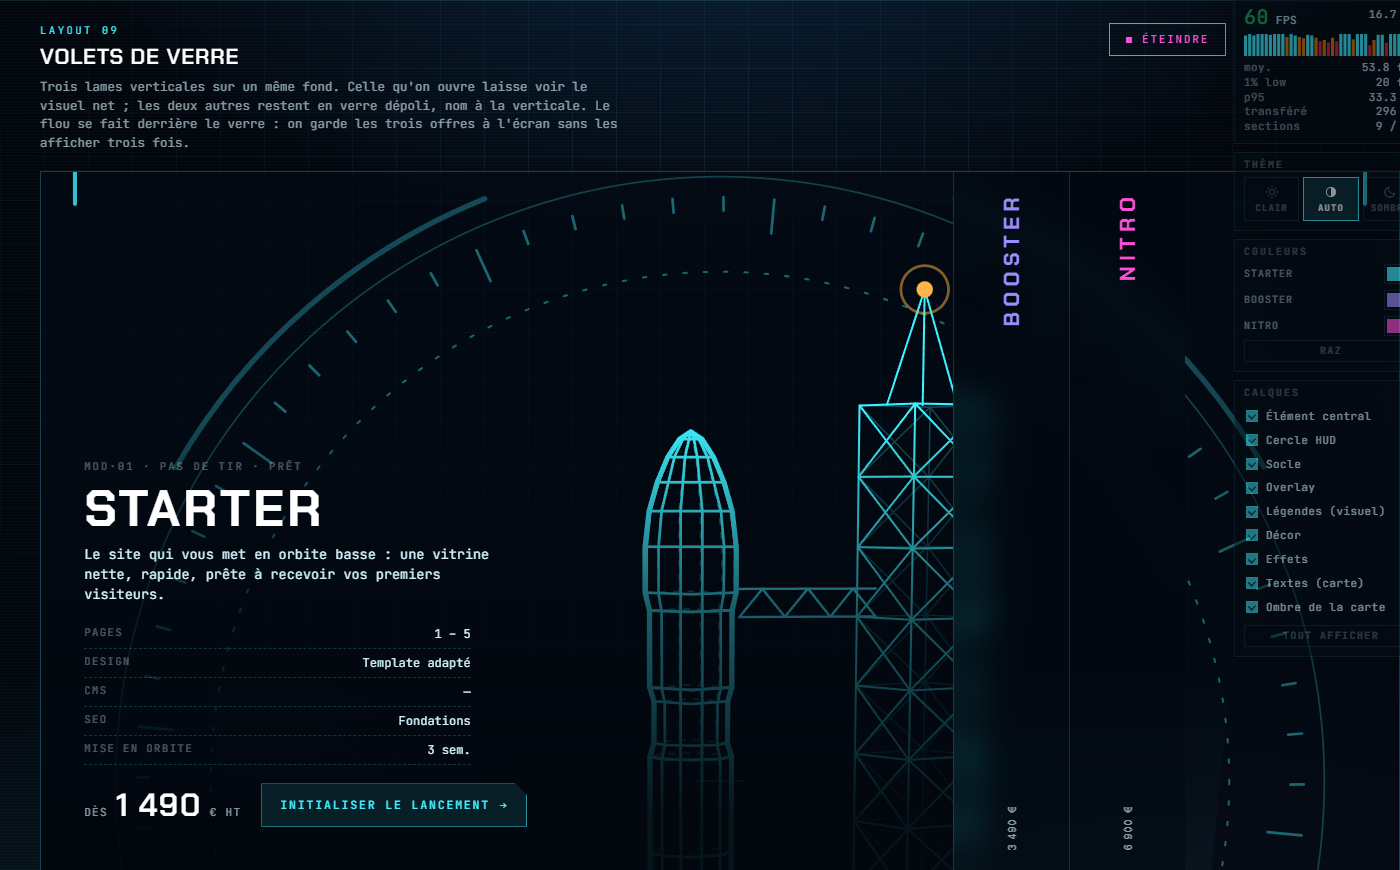
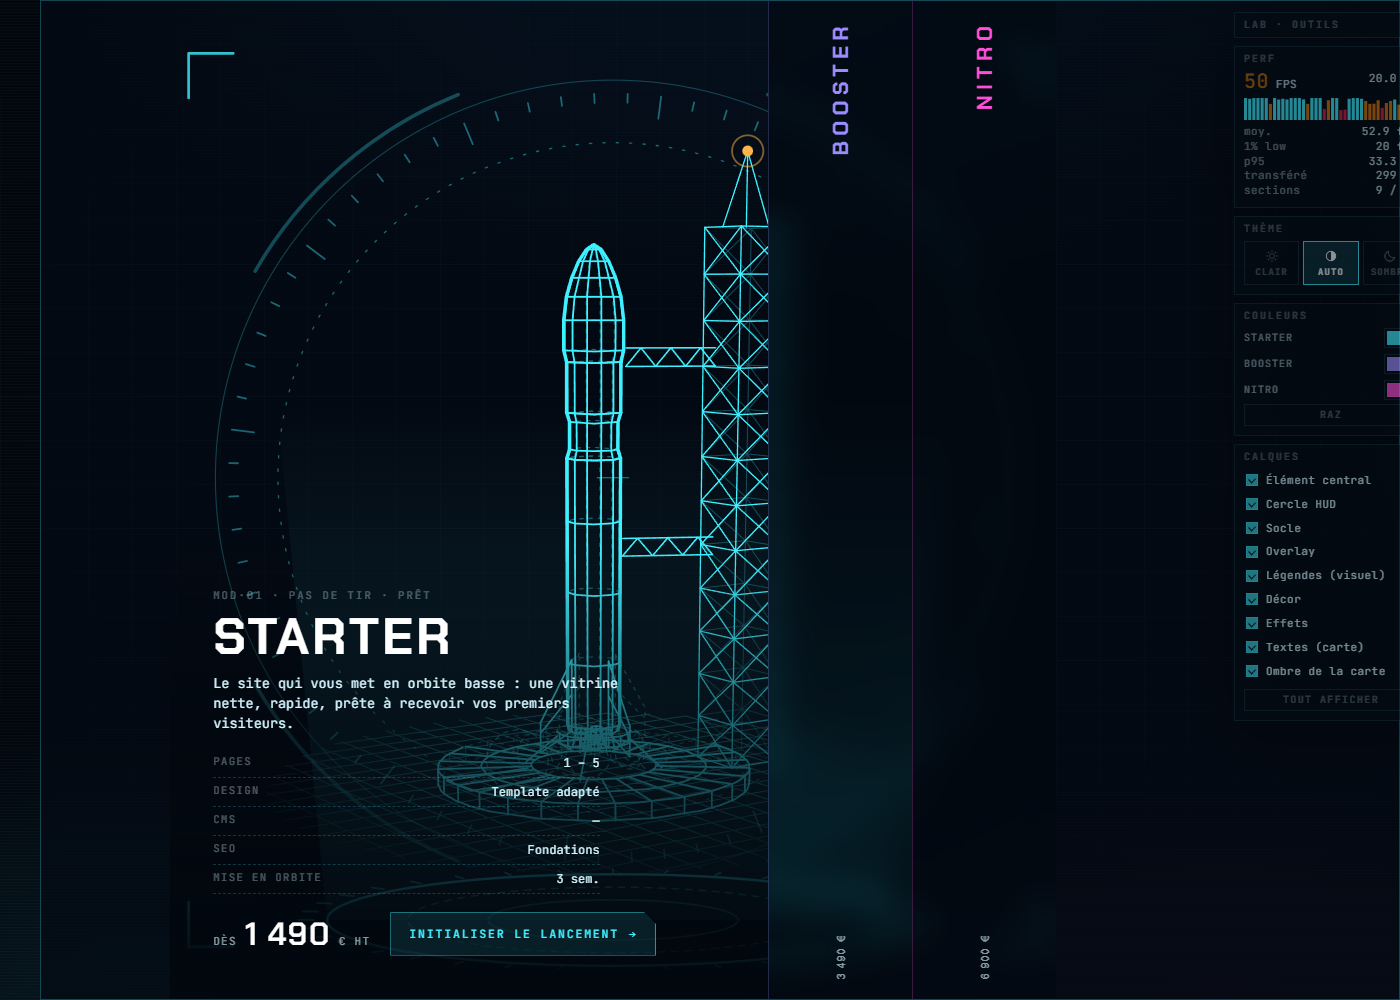
fix(test-layout): une section = un écran, le visuel s'y tient
Les onze mises en page font désormais 100svh (et non 100vh : sur mobile la
barre d'URL tronquait), et le visuel se règle sur cette hauteur au lieu de la
déborder.

La cause du débordement était une bagarre de spécificité : `[data-visual] .illu`
(0,2,0) imposait `height: auto` à `.illu--bg` (0,1,0), si bien que les plans de
fond se calaient sur la *largeur* de la section — soit 1,05 × 1840 px de haut
pour 1000 px disponibles. D'où la fusée coupée en bas du diorama et le vaisseau
rogné derrière la typographie. Le débordement des plans, lui, était voulu (marge
de parallaxe) : il est conservé, mais ramené à 3-4 % à l'intérieur de la section.

Le reste suit : contenus centrés verticalement (hero, immersif, fiche technique,
hublot, typographie), cartes du fond de la pile en pourcentages plutôt qu'en
pixels, `--illu-max` par layout dans la première famille (46 vh pour la fiche
technique, 74 vh pour les deux colonnes), section en veille à 42 vh pour ne pas
imposer onze écrans vides.

Les volets (09) demandaient un arbitrage : un dessin large de 0,95 × la hauteur
posé dans une section deux fois plus large, et les lames de verre n'ont plus rien
à flouter derrière elles. Elles se resserrent donc autour du dessin, quitte à
laisser de l'air sur les côtés — l'effet de profondeur passe avant le remplissage.

Vérifié de 1280 à 1920 px (haut et bas de chaque section) : tous les contrôles
restent atteignables, 11/11 sélecteurs changent d'offre, aucun débordement
[…]

diff --git a/test-layout/css/style.css b/test-layout/css/style.css
@@ -47,8 +47,10 @@
 .power[aria-pressed="true"] { border-color: var(--c-nitro); color: var(--c-nitro); }
 
 .lab-section__stage { position: relative; min-height: 120px; padding-inline: clamp(16px, 3vw, 40px); }
+/* En veille, la section ne prend pas un écran entier : onze cadres vides à faire
+   défiler avant d'en allumer un, ce serait la page la moins agréable du lab. */
 .lab-section__idle {
-  display: grid; place-items: center; min-height: 200px; margin: 0;
+  display: grid; place-items: center; min-height: 42vh; margin: 0;
   border: 1px dashed var(--line); color: var(--ink-faint);
   font-size: 11.5px; letter-spacing: .14em; text-transform: uppercase;
 }
@@ -85,6 +87,25 @@
 [data-visual] { color: var(--accent); }
 [data-visual] .illu { width: 100%; height: auto; display: block; }
 
+/* ── Une section = un écran ──────────────────────────────────────────────────
+ * Chaque mise en page occupe toute la hauteur du viewport : c'est la seule
+ * façon honnête de juger une section d'offre, qu'on découvre toujours ainsi.
+ * Corollaire : le visuel se règle sur cette hauteur (`--illu-max`), il ne la
+ * dépasse jamais. Un dessin coupé par le bas, ce n'était pas un parti pris.
+ * `svh` plutôt que `vh` : sur mobile, la barre d'URL ne doit pas tronquer.
+ * ─────────────────────────────────────────────────────────────────────────── */
+.l-split, .l-hero, .l-imm, .l-data, .l-stack, .l-throttle,
+.l-cock, .l-sten, .l-shut, .l-port, .l-dio {
+  min-height: 100vh;
+  min-height: 100svh;
+}
+[data-visual] .illu { max-height: var(--illu-max, none); }
+.l-split { --illu-max: 74vh; }
+.l-hero { --illu-max: 58vh; }
+.l-data { --illu-max: 46vh; }
+.l-stack { --illu-max: 56vh; }
+.l-throttle { --illu-max: 72vh; }
+
 /* ── 01 · Deux colonnes, onglets ─────────────────────────────────────────── */
 .l-split { display: grid; grid-template-columns: minmax(320px, 620px) minmax(320px, 64ch); gap: clamp(24px, 4vw, 72px);
   align-items: center; justify-content: center;
@@ -101,7 +122,8 @@
 @media (max-width: 900px) { .l-split { grid-template-columns: minmax(0, 1fr); } }
 
 /* ── 02 · Hero centré, ascenseur d'étages ────────────────────────────────── */
-.l-hero { display: grid; grid-template-columns: 200px minmax(0, 860px); gap: clamp(20px, 4vw, 64px); justify-content: center;
+.l-hero { display: grid; grid-template-columns: 200px minmax(0, 860px); gap: clamp(20px, 4vw, 64px);
+  justify-content: center; align-content: center;
   padding: clamp(20px, 3vw, 40px); border: 1px solid color-mix(in srgb, var(--accent) 24%, transparent); background: var(--panel); }
 .stepper { display: flex; flex-direction: column; gap: 6px; position: relative; }
 .stepper::before { content: ""; position: absolute; left: 17px; top: 18px; bottom: 18px; width: 1px; background: var(--line); }
@@ -127,7 +149,8 @@
 @media (max-width: 760px) { .l-hero { grid-template-columns: minmax(0, 1fr); } .stepper { flex-direction: row; overflow-x: auto; } .stepper::before { display: none; } }
 
 /* ── 03 · Immersif, carrousel ────────────────────────────────────────────── */
-.l-imm { position: relative; overflow: hidden; border: 1px solid color-mix(in srgb, var(--accent) 28%, transparent); background: var(--panel); min-height: min(76vh, 680px); }
+.l-imm { position: relative; overflow: hidden; display: flex; align-items: center;
+  border: 1px solid color-mix(in srgb, var(--accent) 28%, transparent); background: var(--panel); }
 .l-imm:focus-visible { outline: 2px solid var(--accent); outline-offset: 2px; }
 .l-imm__visual { position: absolute; inset: 0; display: grid; place-items: center; opacity: .95; }
 .l-imm__visual .illu { width: auto; height: 100%; max-width: none; }
@@ -164,22 +187,24 @@
 .explorer__code { font-size: 10px; letter-spacing: .18em; text-transform: uppercase; color: var(--ink-faint); }
 .explorer__name { grid-column: 1; font: 600 14px/1 var(--font-display); letter-spacing: .05em; text-transform: uppercase; }
 .explorer__price { grid-row: 2; text-align: right; font-size: 11.5px; font-variant-numeric: tabular-nums; }
-.l-data__panel { padding: clamp(18px, 2.5vw, 32px); }
+.l-data__panel { padding: clamp(18px, 2.5vw, 32px); display: flex; flex-direction: column; justify-content: center; }
 .l-data__head { display: flex; align-items: flex-start; justify-content: space-between; gap: 16px; margin-bottom: 16px; }
 .l-data__grid { display: grid; grid-template-columns: minmax(240px, 340px) minmax(0, 1fr); gap: clamp(24px, 3vw, 48px); align-items: start; }
 .l-data__foot { display: flex; align-items: center; justify-content: space-between; gap: 20px; flex-wrap: wrap; margin-top: 18px; padding-top: 16px; border-top: 1px solid var(--line); }
 @media (max-width: 900px) { .l-data, .l-data__grid { grid-template-columns: minmax(0, 1fr); } .explorer { border-right: 0; border-bottom: 1px solid var(--line); } }
 
 /* ── 05 · Pile de cartes ─────────────────────────────────────────────────── */
-.l-stack { position: relative; padding: 10px 0 10px 150px; min-height: min(72vh, 620px); }
+.l-stack { position: relative; display: flex; align-items: center; padding: 10px 0 10px 150px; }
 .l-stack__front {
-  position: relative; z-index: 3; max-width: 1320px; display: grid; grid-template-columns: minmax(280px, 520px) minmax(0, 1fr); gap: clamp(20px, 4vw, 64px);
+  position: relative; z-index: 3; width: 100%; max-width: 1320px; display: grid; grid-template-columns: minmax(280px, 520px) minmax(0, 1fr); gap: clamp(20px, 4vw, 64px);
   align-items: center; padding: clamp(18px, 3vw, 30px);
   border: 1px solid color-mix(in srgb, var(--accent) 34%, transparent); background: var(--panel);
   box-shadow: 0 24px 60px -40px #000;
 }
+/* Les cartes du fond suivent la hauteur de la section plutôt qu'un chiffre fixe :
+   à 100 vh, des insets en pixels les auraient étirées en lames de rasoir. */
 .l-stack__ghost {
-  position: absolute; top: 34px; bottom: 34px; width: 132px; z-index: 1; cursor: pointer;
+  position: absolute; top: 18%; bottom: 18%; width: 132px; z-index: 1; cursor: pointer;
   display: flex; flex-direction: column; justify-content: center; gap: 8px; padding: 18px 14px;
   border: 1px solid var(--line); background: var(--panel-solid); color: var(--ink-dim);
   transition: transform .35s var(--ease), border-color .3s, color .3s;
@@ -251,13 +276,15 @@
  * ════════════════════════════════════════════════════════════════════════════ */
 .l-cock, .l-sten, .l-shut, .l-port, .l-dio {
   position: relative; overflow: hidden;
-  min-height: min(78vh, 700px);
   border: 1px solid color-mix(in srgb, var(--accent) 26%, transparent);
   background: var(--panel);
 }
-/* Le plan de fond : plus grand que la section, donc toujours plein cadre */
+/* Le plan de fond reste *dans* la section : il se règle sur sa hauteur et garde
+   une marge (3-4 %) que la parallaxe consomme sans jamais rogner le dessin. */
 .l-cock__bg, .l-sten__bg, .l-shut__bg, .l-port__bg, .l-dio__bg { position: absolute; inset: 0; }
-.illu--bg { width: 100%; height: 100%; }
+/* Sélecteur assez spécifique pour battre `[data-visual] .illu { height: auto }` :
+   sinon le dessin se cale sur la largeur du plan et déborde par le bas. */
+[data-visual] .illu--bg { width: 100%; height: 100%; }
 /* Un décor n'a pas besoin de parler : en fond, le visuel perd ses légendes (deux
    typographies concurrentes à deux échelles, c'en est une de trop) et son halo
    (agrandi 2×, le flou gaussien coûte cher pour un plan qu'on regarde à peine). */
@@ -266,7 +293,7 @@
 
 /* ── 07 · Poste de pilotage ──────────────────────────────────────────────── */
 .l-cock { display: flex; flex-direction: column; justify-content: space-between; }
-.l-cock__bg { inset: 2% 14% 2% 26%; opacity: .95; }
+.l-cock__bg { inset: 4% 13% 4% 30%; opacity: .95; }
 .l-cock__scrim {
   position: absolute; inset: 0;
   background:
@@ -321,7 +348,7 @@
 .tog:hover { color: var(--ink); border-color: color-mix(in srgb, var(--accent) 45%, transparent); }
 .tog__code { font-size: 9px; letter-spacing: .2em; color: var(--ink-faint); }
 .tog__name { font: 600 11px/1 var(--font-display); font-style: normal; letter-spacing: .14em; text-transform: uppercase; }
-@media (max-width: 760px) { .l-cock__bg { inset: -6% -20%; opacity: .5; } .l-cock__panel { width: auto; } }
+@media (max-width: 760px) { .l-cock__bg { inset: 2% -10%; opacity: .5; } .l-cock__panel { width: auto; } }
 
 /* ── 08 · Typographie évidée ─────────────────────────────────────────────── */
 /* Les lettres se fondent dans le visuel : éclaircies sur fond sombre, encrées sur fond
@@ -330,22 +357,24 @@
 @media (prefers-color-scheme: light) { :root:not([data-theme="dark"]) { --sten-blend: multiply; --sten-glow: none; } }
 :root[data-theme="light"] { --sten-blend: multiply; --sten-glow: none; }
 
-.l-sten { min-height: min(84vh, 760px); }
-.l-sten__bg { inset: -6% 0; }
+.l-sten__bg { inset: 3% 0; }
 .l-sten__veil {
   position: absolute; inset: 0;
   background: radial-gradient(92% 72% at 32% 38%, color-mix(in srgb, var(--bg) 42%, transparent), color-mix(in srgb, var(--bg) 86%, transparent) 78%);
 }
+/* Sur un plein écran, le bloc de noms se centre : sinon il flotte en haut d'une
+   section deux fois plus haute que lui. */
+.l-sten { display: grid; align-content: center; }
 .l-sten__words {
   position: relative; z-index: 2; display: flex; flex-direction: column; align-items: flex-start;
-  padding: clamp(20px, 3.5vw, 52px) clamp(16px, 3vw, 40px) 0;
+  padding: 0 clamp(16px, 3vw, 40px);
 }
 /* Le mode de fusion ne se pose que sur le mot allumé : chaque élément fusionné doit
    être recomposé à chaque image du visuel qui passe dessous. Un seul, ça se paie ;
    trois, ça coûtait 15 fps. Les contours, eux, n'en ont pas besoin. */
 .l-sten__word[aria-selected="true"] { mix-blend-mode: var(--sten-blend); }
 .l-sten__word {
-  font: 700 clamp(2.4rem, 8vw, 6.8rem)/.94 var(--font-display);
+  font: 700 clamp(2.4rem, 8vw, 8.4rem)/.94 var(--font-display);
   letter-spacing: .02em; text-transform: uppercase; text-align: left;
   padding: 0; background: none; border: 0; cursor: pointer;
   color: transparent; -webkit-text-stroke: 1.2px color-mix(in srgb, var(--ink) 40%, transparent);
@@ -372,13 +401,18 @@
 @media (max-width: 760px) { .l-sten__card { position: static; width: auto; margin: 24px clamp(16px, 3vw, 40px) clamp(16px, 3vw, 40px); } }
 
 /* ── 09 · Volets de verre ────────────────────────────────────────────────── */
-.l-shut__bg { inset: -10% 0; }
-.l-shut__rail { position: absolute; inset: 0; display: flex; }
+.l-shut__bg { inset: 3% 0; }
+/* Les lames se resserrent autour du dessin (large d'environ 0,95 × la hauteur) :
+   posées aux bords d'une section deux fois plus large, elles n'auraient rien
+   derrière elles à flouter, et le verre dépoli ne se verrait pas. */
+.l-shut__rail { position: absolute; inset: 0; display: flex; padding-inline: max(0px, calc((100% - 96svh - 140px) / 2)); }
 .l-shut__pane { position: relative; border-left: 1px solid color-mix(in srgb, var(--accent) 22%, transparent); }
 .l-shut__pane:first-child { border-left: 0; }
 /* Fermé : lame de verre dépoli — c'est *derrière* elle que le flou se produit */
+/* Des lames assez larges pour mordre sur le dessin : le verre dépoli n'a d'effet
+   que là où il a quelque chose à flouter derrière lui. */
 .l-shut__pane--closed {
-  flex: 0 0 clamp(68px, 9vw, 116px); cursor: pointer; padding: 20px 0;
+  flex: 0 0 clamp(76px, 10vw, 150px); cursor: pointer; padding: 20px 0;
   display: flex; flex-direction: column; align-items: center; justify-content: space-between; gap: 16px;
   background: color-mix(in srgb, var(--bg) 50%, transparent);
   backdrop-filter: blur(16px) saturate(1.15);
@@ -403,9 +437,13 @@
 @media (max-width: 760px) { .l-shut__vert { font-size: .85rem; } .l-shut__pane--closed { flex-basis: 56px; } }
 
 /* ── 10 · Hublot ─────────────────────────────────────────────────────────── */
-.l-port { --cx: 72%; --cy: 46%; --r: clamp(120px, 20vw, 240px); }
-/* Le visuel est cadré sur le hublot : c'est lui qu'on regarde à travers le disque */
-.l-port__bg { inset: 13% auto 13% auto; left: calc(var(--cx) - 21%); width: 42%; }
+.l-port { --cx: 72%; --cy: 46%; --r: clamp(120px, 17vw, 300px); }
+/* Le visuel est cadré sur le hublot, en unités de rayon : il suit le disque
+   quelle que soit la taille de l'écran, et déborde à peine de son cercle. */
+.l-port__bg {
+  inset: auto; left: calc(var(--cx) - var(--r) * 1.12); top: calc(var(--cy) - var(--r) * 1.16);
+  width: calc(var(--r) * 2.24); height: calc(var(--r) * 2.32);
+}
 /* Le voile floute *son propre fond*, sauf dans le disque : un seul visuel, deux netteté */
 .l-port__mask {
   position: absolute; inset: 0;
@@ -421,7 +459,8 @@
   box-shadow: 0 0 0 12px color-mix(in srgb, var(--bg) 35%, transparent), inset 0 0 70px -24px var(--accent);
 }
 .l-port__ring i { position: absolute; inset: -16px; border-radius: 50%; border: 1px dashed color-mix(in srgb, var(--accent) 24%, transparent); }
-.l-port__text { position: relative; z-index: 2; width: min(46ch, 56%); padding: clamp(22px, 3.5vw, 56px) clamp(16px, 3vw, 40px) 0; }
+.l-port { display: flex; align-items: center; }
+.l-port__text { position: relative; z-index: 2; width: min(46ch, 56%); padding: 0 clamp(16px, 3vw, 40px); }
 .specs--lead { max-width: 40ch; }
 .specs--lead div { border-bottom-style: dotted; }
 .l-port__foot { display: flex; align-items: center; gap: 18px; flex-wrap: wrap; margin-top: 4px; }
@@ -457,9 +496,10 @@
 .l-port__marks button[aria-checked="true"] { color: var(--accent); }
 .l-port__marks button[aria-checked="true"] i { width: 24px; height: 2px; box-shadow: 0 0 8px var(--accent); }
 @media (max-width: 760px) {
-  .l-port { --cx: 72%; --cy: 26%; --r: 108px; }
-  .l-port__bg { inset: -4% -10% 40% 18%; }
-  .l-port__text { width: auto; padding-top: 240px; }
+  /* En colonne : le hublot en haut, le texte dessous — jamais sur le disque */
+  .l-port { display: block; --cx: 50%; --cy: 24%; --r: min(34vw, 150px); }
+  /* En pourcentage, un padding se mesure sur la largeur : on reste en rayons */
+  .l-port__text { width: auto; padding-top: calc(var(--r) * 2 + 56px); }
   .l-port__dial { position: static; margin: 18px clamp(16px, 3vw, 40px) clamp(18px, 3vw, 34px); }
 }
 
@@ -467,7 +507,9 @@
 .l-dio { perspective: 1200px; perspective-origin: 50% 44%; }
 .l-dio__scene { position: absolute; inset: 0; transform-style: preserve-3d; }
 .l-dio__plane { position: absolute; inset: 0; }
-.l-dio__bg { transform: translateZ(-210px) scale(1.12); opacity: .92; }
+/* Reculé de 210 px sous une perspective de 1200, le plan paraît à 85 % : on ne le
+   rattrape pas par un scale, sinon la toile déborde du diorama qui la contient. */
+.l-dio__bg { inset: 3% 0; transform: translateZ(-210px); opacity: .92; }
 .l-dio__grid {
   transform: translateZ(-90px) scale(1.16); opacity: .45;
   background-image:
@@ -532,7 +574,8 @@
   .l-data__panel, .l-stack__front { padding-right: max(clamp(18px, 2.5vw, 32px), var(--dock-w, 214px)); }
   /* Famille « visuel en fond » : ce qui est collé au bord droit passerait sous le dock */
   .l-sten__card, .l-dio__tabs { right: max(clamp(16px, 3vw, 44px), var(--dock-w, 214px)); }
-  /* Les volets s'arrêtent avant le dock : la dernière lame resterait sous lui, donc incliquable */
-  .l-shut__rail { right: var(--dock-w, 214px); }
+  /* Les volets s'arrêtent avant le dock : la dernière lame resterait sous lui, donc
+     incliquable. Le plan de fond suit, pour que lames et dessin restent concentriques. */
+  .l-shut__rail, .l-shut__bg { right: var(--dock-w, 214px); }
   .l-port { --cx: 62%; }
 }

diff --git a/test-layout/README.md b/test-layout/README.md
@@ -27,11 +27,24 @@ markup qu'on injecte. Comme on peut afficher onze sections en même temps, c'ét
 risquée pour la fluidité. Les trois visuels viennent de `js/svg-data.js`, généré par le
 prototype 01 : une seule source, aucun doublon.
 
-## Une section prend toute la largeur
+## Une section = un écran
 
-Aucune section n'est bridée par une largeur de page : la bordure, le fond et le visuel vont
-d'un bord à l'autre de l'écran. Ce sont les **blocs à l'intérieur** (colonne de texte à 62 ch,
-carte, panneau, grille de specs) qui se limitent, là où la lecture l'exige.
+Chaque mise en page occupe **toute la hauteur du viewport** (`100svh`, pas `100vh` : sur mobile
+la barre d'URL ne doit pas tronquer) et **toute la largeur** : la bordure, le fond et le visuel
+vont d'un bord à l'autre. Ce sont les **blocs à l'intérieur** (colonne de texte à 62 ch, carte,
+panneau, grille de specs) qui se limitent, là où la lecture l'exige. C'est la seule façon
+honnête de juger une section d'offre : on la découvre toujours ainsi.
+
+Corollaire : **le visuel se règle sur cette hauteur et ne la dépasse jamais.** Dans la première
+famille, il est borné par `--illu-max` (de 46 vh pour la fiche technique à 74 vh pour les deux
+colonnes) ; dans la seconde, son plan reste à l'intérieur de la section avec une marge de 3-4 %
+que la parallaxe consomme. Une section en veille, elle, ne prend que 42 vh — onze cadres vides à
+faire défiler, ce serait la page la moins agréable du lab.
+
+> Le dessin fait 400 × 420 : posé dans une section large et basse, il se règle sur la hauteur et
+> laisse donc de l'air sur les côtés. C'est assumé — c'est le prix du « rien n'est coupé ».
+> Les volets (09) en tiennent compte : leurs lames se resserrent autour du dessin, sinon le verre
+> dépoli n'aurait rien à flouter derrière lui.
 
 Le dock d'outils passe **par-dessus** la page plutôt que de lui manger une colonne. Il s'estompe
 au repos, et les layouts ne décalent leur contenu vers la gauche que si l'écran ne laisse pas
@@ -73,7 +86,8 @@ un outil de profondeur différent.
 
 Trois règles communes à cette famille, dans `css/style.css` :
 
-- le plan de fond **déborde** de la section, pour que la parallaxe ne découvre jamais un bord ;
+- le plan de fond **reste dans la section** et garde une marge de 3-4 % que la parallaxe
+  consomme, pour ne découvrir aucun bord sans jamais rogner le dessin ;
 - un **voile dégradé** s'intercale toujours entre le visuel et le texte, et le contenu porte son
   propre fond translucide — jamais de texte posé à nu sur le trait ;
 - en fond, le visuel **perd ses légendes et son halo** (`.illu--bg`) : deux typographies
